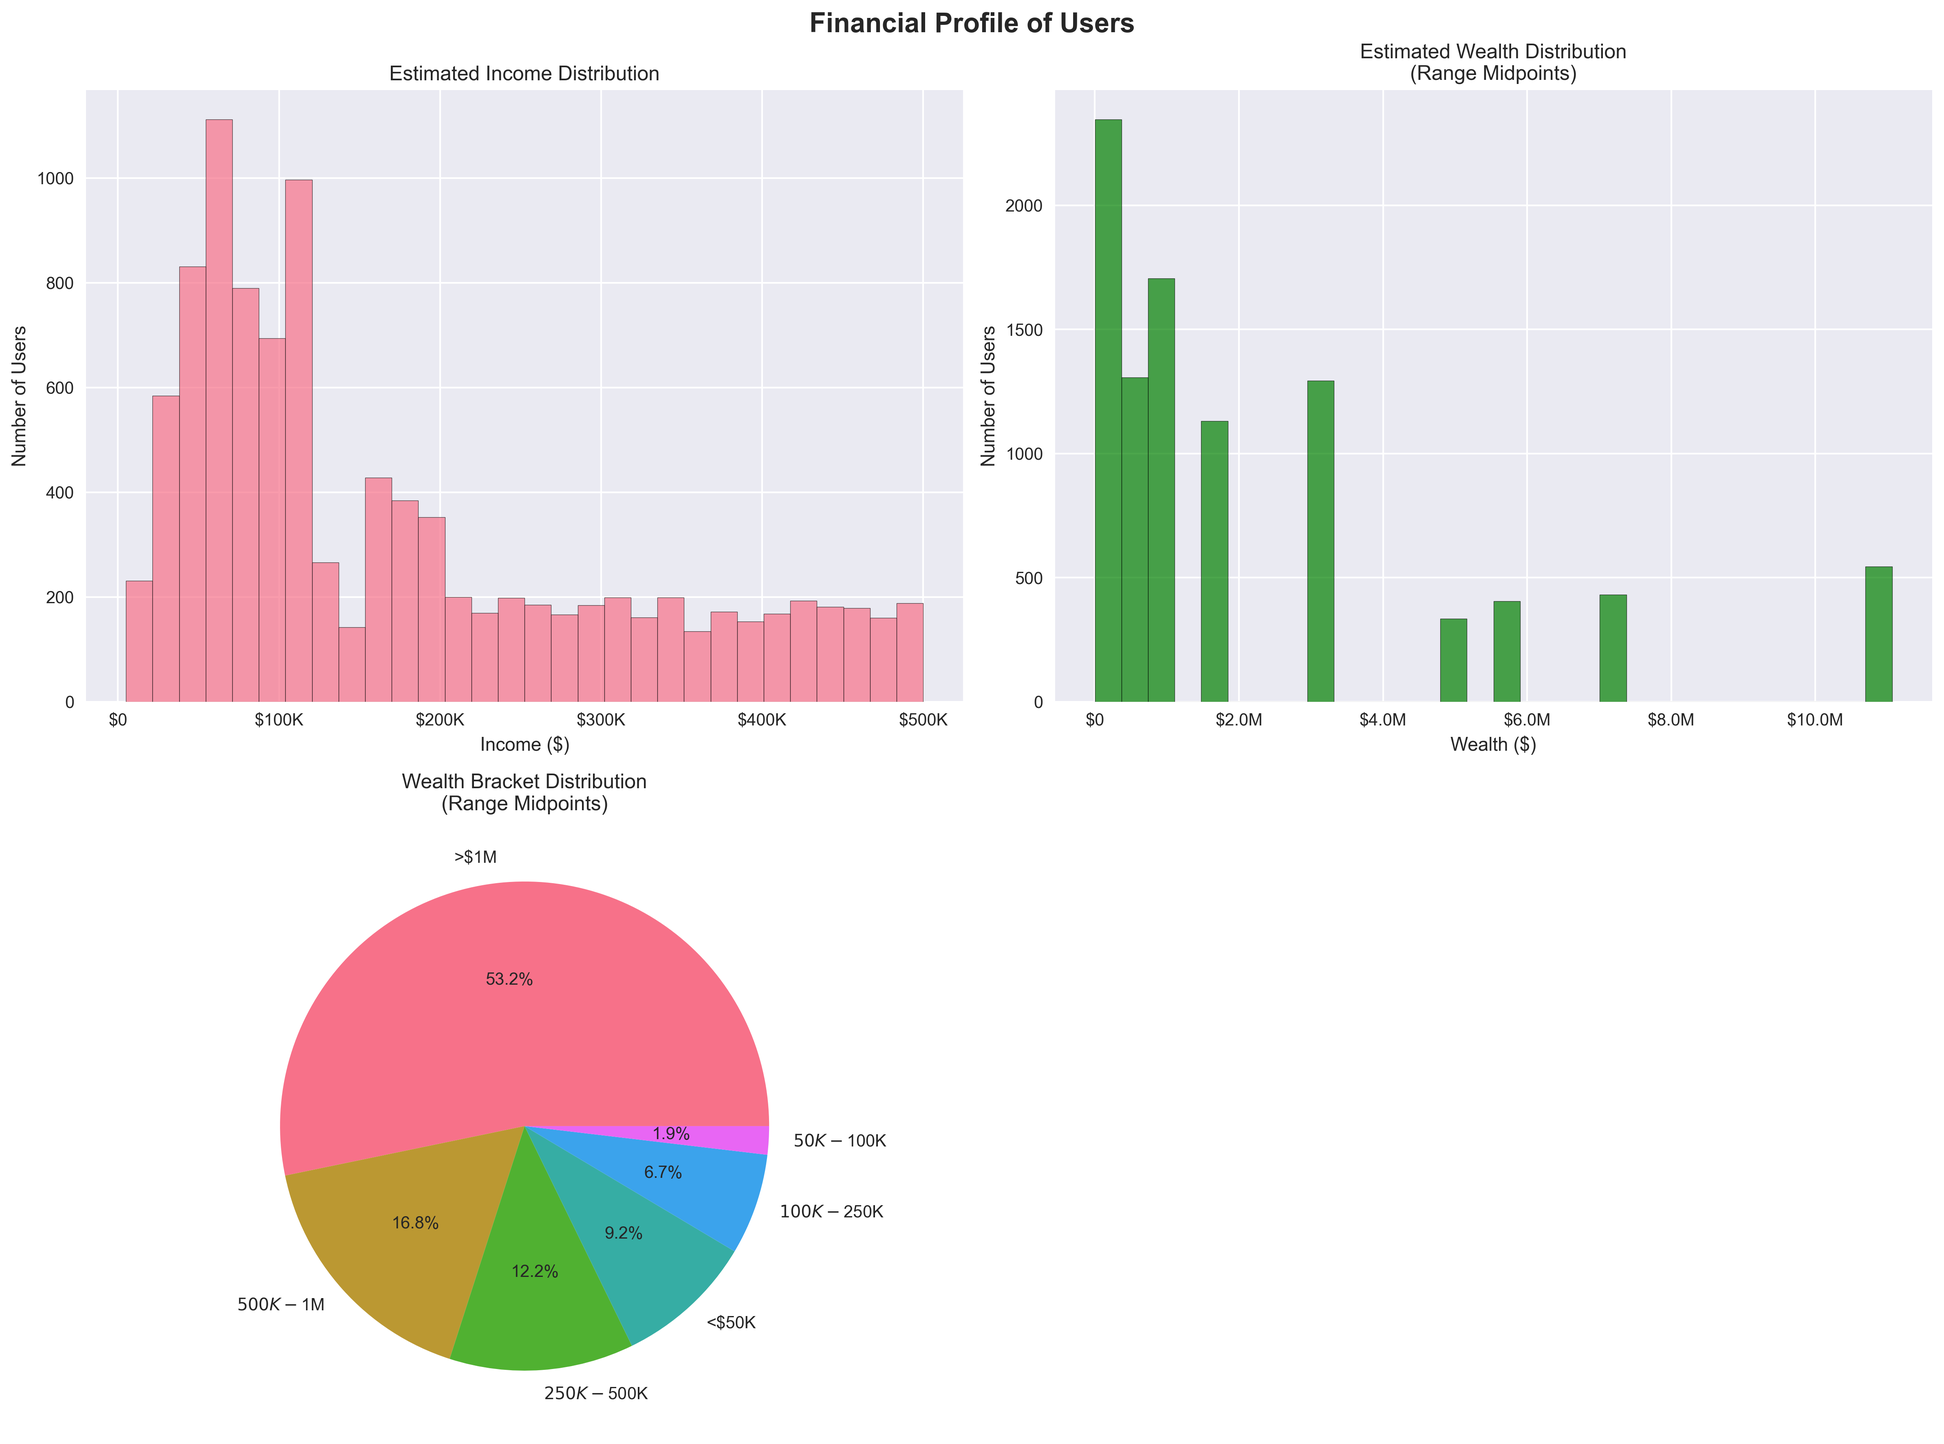
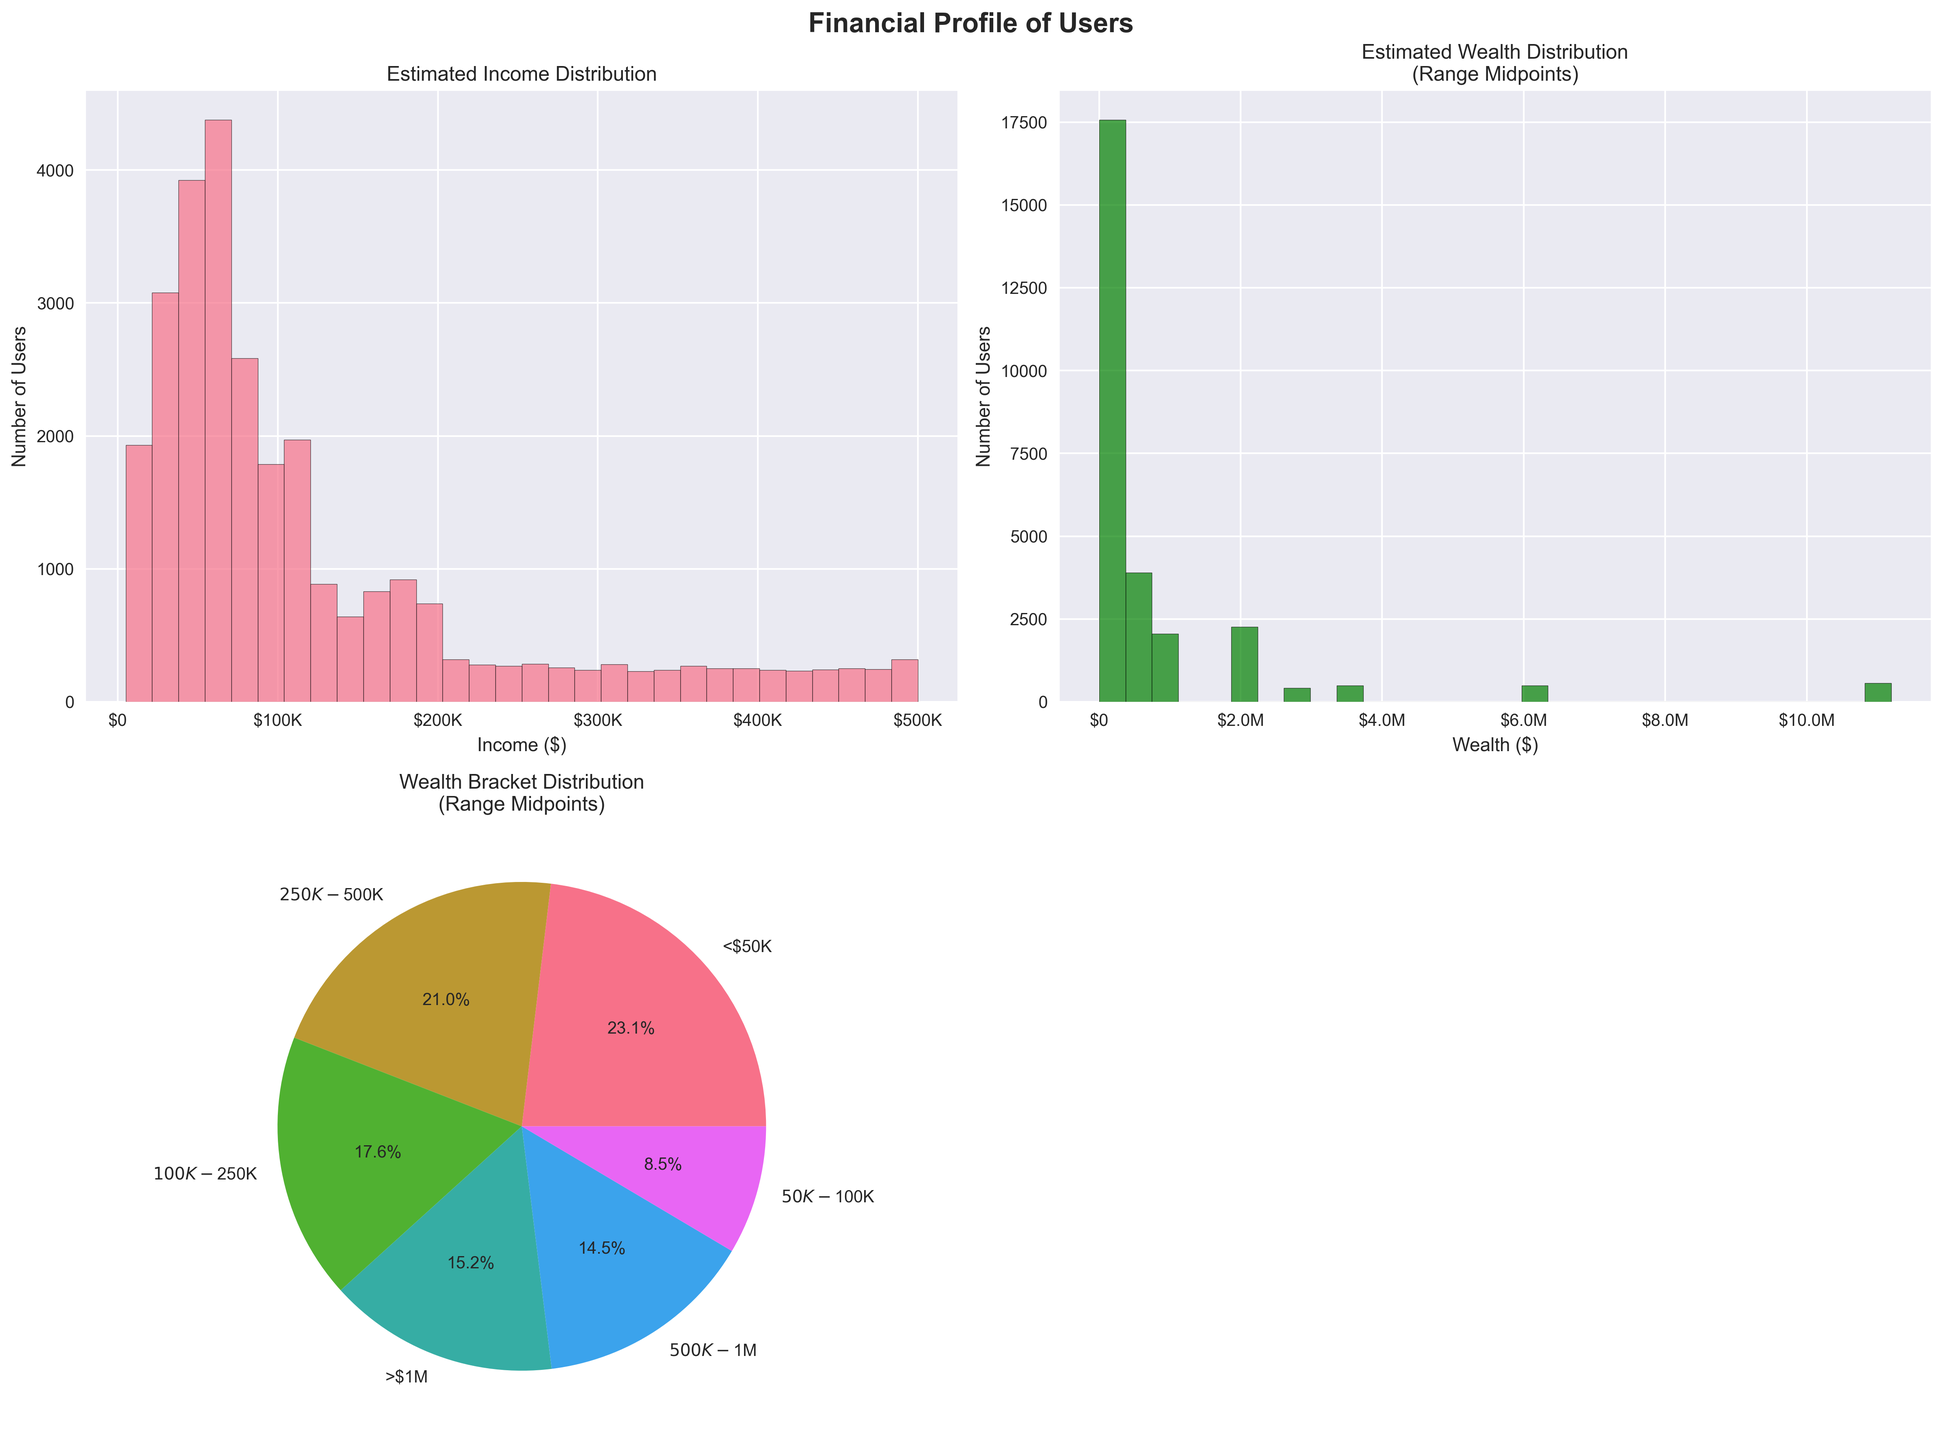
Revert "visualizations with our postgres data"
This reverts commit 19a86f9bc1126cad0f42b559c5a646c55cbc8e3d.

diff --git a/user_dashboard.html b/user_dashboard.html
@@ -277,17 +277,16 @@
         <header>
             <h1>User Demographics & Behavior Analysis</h1>
             <p>Data-Driven Insights for Strategic Business Decisions</p>
-            <p style="font-size: 1em; margin-top: 10px; opacity: 0.8;">Based on 10,000 Data Axle enriched user records</p>
-            <p style="font-size: 0.9em; margin-top: 6px; opacity: 0.85;">Source: PostgreSQL table <code>matched_emails</code> (email, response_json) | Generated February 02, 2026 at 05:53 PM</p>
+            <p style="font-size: 1em; margin-top: 10px; opacity: 0.8;">Based on 28,381 Data Axle enriched user records</p>
         </header>
 
         <!-- <div class="timestamp">
-            📅 Dashboard generated on February 02, 2026 at 05:53 PM | Data is current as of latest analysis
+            📅 Dashboard generated on August 08, 2025 at 11:23 PM | Data is current as of latest analysis
         </div> -->
 
         <!-- <div class="stats-grid">
             <div class="stat-card">
-                <div class="stat-number">10,000</div>
+                <div class="stat-number">28,381</div>
                 <div class="stat-label">Total Users Analyzed</div>
             </div>
             <div class="stat-card">
@@ -295,11 +294,11 @@
                 <div class="stat-label">States Covered</div>
             </div>
             <div class="stat-card">
-                <div class="stat-number">3544</div>
+                <div class="stat-number">6045</div>
                 <div class="stat-label">Cities Represented</div>
             </div>
             <div class="stat-card">
-                <div class="stat-number">95</div>
+                <div class="stat-number">94</div>
                 <div class="stat-label">Interest Categories</div>
             </div>
         </div> -->
@@ -328,16 +327,16 @@
                     <div class="insight-card">
                         <h4>🎯 Key Takeaways</h4>
                         <ul>
-                            <li>Geographic presence across 51 states and 3544 cities</li>
-                            <li>Average income: $174,357 creates diverse segments</li>
-                            <li>Rich interest data with 95 categories analyzed</li>
+                            <li>Geographic presence across 51 states and 6045 cities</li>
+                            <li>Average income: $121,580 creates diverse segments</li>
+                            <li>Rich interest data with 94 categories analyzed</li>
                             <li>Strong engagement patterns across multiple interests</li>
                         </ul>
                     </div>
                     <div class="insight-card">
                         <h4>📈 Growth Opportunities</h4>
                         <ul>
-                            <li>Geographic expansion beyond top states: CA, PA, NY</li>
+                            <li>Geographic expansion beyond top states: CA, TX, FL</li>
                             <li>Premium product offerings for high-income segments</li>
                             <li>Interest-based targeted marketing campaigns</li>
                             <li>Cross-selling opportunities between related interests</li>
@@ -360,9 +359,9 @@
                     <div class="insight-card">
                         <h4>🏙 Market Concentration</h4>
                         <ul>
-                            <li>CA: 1,066 users (10.7% of total)</li>
-                            <li>PA: 626 users (6.3% of total)</li>
-                            <li>NY: 566 users (5.7% of total)</li>
+                            <li>CA: 3,185 users (11.2% of total)</li>
+                            <li>TX: 2,567 users (9.0% of total)</li>
+                            <li>FL: 1,929 users (6.8% of total)</li>
                         </ul>
                     </div>
                     <div class="insight-card">
@@ -423,7 +422,7 @@
                     <div class="insight-card">
                         <h4>💵 Income Segments</h4>
                         <ul>
-                            <li>Average income: $174,357</li>
+                            <li>Average income: $121,580</li>
                             <li>Wide income distribution creates multiple segments</li>
                             <li>Homeowners show higher average income</li>
                             <li>Premium offerings viable for high-income users</li>
@@ -466,45 +465,45 @@
                         <div class="insight-column">
                             <h4>🔥 High-Value Segments</h4>
                             <div class="insight-item">
-                                <strong>Internet:</strong> 6,119 highly engaged users (75.5%)<br>
-                                Average score: 7.6/9 | Total: 8,108 users
+                                <strong>Family:</strong> 4,234 highly engaged users (46.8%)<br>
+                                Average score: 5.8/9 | Total: 9,056 users
                             </div>
                             <div class="insight-item">
-                                <strong>Credit Cards:</strong> 5,234 highly engaged users (66.7%)<br>
-                                Average score: 7.0/9 | Total: 7,848 users
+                                <strong>Sports:</strong> 3,533 highly engaged users (45.8%)<br>
+                                Average score: 5.7/9 | Total: 7,721 users
                             </div>
                             <div class="insight-item">
-                                <strong>Catalogs:</strong> 3,369 highly engaged users (51.8%)<br>
-                                Average score: 5.8/9 | Total: 6,506 users
+                                <strong>Womens Apparel:</strong> 3,927 highly engaged users (36.7%)<br>
+                                Average score: 5.0/9 | Total: 10,687 users
                             </div>
                         </div>
                         <div class="insight-column">
                             <h4>🚀 Emerging Opportunities</h4>
                             <div class="insight-item">
                                 <strong>Rvs:</strong> 9.0/9 average score<br>
-                                129 users with high engagement potential
+                                408 users with high engagement potential
                             </div>
                             <div class="insight-item">
                                 <strong>Trucks:</strong> 9.0/9 average score<br>
-                                237 users with high engagement potential
+                                729 users with high engagement potential
                             </div>
                             <div class="insight-item">
-                                <strong>Football:</strong> 8.3/9 average score<br>
-                                284 users with high engagement potential
+                                <strong>Tobacco:</strong> 9.0/9 average score<br>
+                                169 users with high engagement potential
                             </div>
                         </div>
                         <div class="insight-column">
                             <h4>👥 Mass Market Appeal</h4>
                             <div class="insight-item">
-                                <strong>Internet:</strong> 8,108 total users<br>
-                                Average engagement: 7.6/9
+                                <strong>Womens Apparel:</strong> 10,687 total users<br>
+                                Average engagement: 5.0/9
                             </div>
                             <div class="insight-item">
-                                <strong>Credit Cards:</strong> 7,848 total users<br>
-                                Average engagement: 7.0/9
+                                <strong>Accessories:</strong> 9,356 total users<br>
+                                Average engagement: 5.1/9
                             </div>
                             <div class="insight-item">
-                                <strong>Catalogs:</strong> 6,506 total users<br>
+                                <strong>Family:</strong> 9,056 total users<br>
                                 Average engagement: 5.8/9
                             </div>
                         </div>
@@ -515,7 +514,7 @@
                     <div class="insight-card">
                         <h4>🎯 Targeting Recommendations</h4>
                         <ul>
-                            <li>Focus on Internet interest users for core products</li>
+                            <li>Focus on Family interest users for core products</li>
                             <li>Develop premium offerings for high-intensity users (scores 7-9)</li>
                             <li>Create targeted campaigns around Rvs interest</li>
                             <li>Build loyalty programs for top engagement categories</li>
@@ -554,8 +553,8 @@
                     <div class="insight-card">
                         <h4>🛍 Product Development</h4>
                         <ul>
-                            <li>Expand internet-oriented product lines</li>
-                            <li>Develop premium credit cards collections</li>
+                            <li>Expand family-oriented product lines</li>
+                            <li>Develop premium sports collections</li>
                             <li>Create products targeting emerging high-intensity segments</li>
                             <li>Bundle related interest categories for increased value</li>
                             <li>Design offerings with broad demographic appeal</li>
@@ -564,7 +563,7 @@
                     <div class="insight-card">
                         <h4>💰 Revenue Optimization</h4>
                         <ul>
-                            <li>Implement tiered pricing (avg income: $174,357)</li>
+                            <li>Implement tiered pricing (avg income: $121,580)</li>
                             <li>Offer premium subscriptions for high-intensity users</li>
                             <li>Create loyalty programs for top 3 interest categories</li>
                             <li>Develop cross-selling strategies between related interests</li>
@@ -587,9 +586,9 @@
 
         <!-- <footer>
             <p><strong>User Demographics & Behavior Analysis Dashboard</strong></p>
-            <p>Generated using Data Axle enriched customer data | Analysis covers 10,000 user records</p>
+            <p>Generated using Data Axle enriched customer data | Analysis covers 28,381 user records</p>
             <p style="margin-top: 10px; opacity: 0.8;">Interest scores based on purchases, memberships, subscriptions, and survey responses</p>
-            <p style="margin-top: 5px; opacity: 0.8;">Dashboard generated on February 02, 2026 at 05:53 PM</p>
+            <p style="margin-top: 5px; opacity: 0.8;">Dashboard generated on August 08, 2025 at 11:23 PM</p>
         </footer> -->
     </div>
 </body>

diff --git a/user_analysis_dashboard.py b/user_analysis_dashboard.py
@@ -1,19 +1,8 @@
 #!/usr/bin/env python3
 """
 User Demographics and Behavior Analysis Dashboard
-Analyzes Data Axle enriched user data to provide insights for business teams.
-Loads data only from PostgreSQL matched_emails table (email, response_json). No CSV.
+Analyzes Data Axle enriched user data to provide insights for business teams
 """
-
-import argparse
-import os
-
-# Load .env so DATABASE_URL (and POSTGRES_URI) are available
-try:
-    from dotenv import load_dotenv
-    load_dotenv()
-except ImportError:
-    pass
 
 import pandas as pd
 import numpy as np
@@ -23,38 +12,9 @@ from collections import Counter
 import warnings
 warnings.filterwarnings('ignore')
 
-try:
-    from postgres_loader import load_from_postgres
-except ImportError:
-    load_from_postgres = None
-
 # Set style for better looking plots
 plt.style.use('seaborn-v0_8')
 sns.set_palette("husl")
-
-
-def normalize_numeric_columns(df):
-    """
-    Coerce columns that should be numeric from string/mixed types (e.g. from Postgres JSON).
-    Fixes errors like '<' not supported between instances of 'int' and 'str'.
-    """
-    numeric_cols = [
-        'data.document.attributes.family.member_count',
-        'data.document.attributes.family.adult_count',
-        'data.document.attributes.family.estimated_income',
-        'data.document.attributes.family.estimated_wealth[0]',
-        'data.document.attributes.family.estimated_wealth[1]',
-        'data.document.attributes.lifestyle_segment',
-    ]
-    for col in numeric_cols:
-        if col in df.columns:
-            df[col] = pd.to_numeric(df[col], errors='coerce')
-    # Interest columns (scores 1-9)
-    for col in df.columns:
-        if 'interests.' in col and col not in ('data.document.attributes.interests.id', 'data.document.attributes.interests.created_at'):
-            df[col] = pd.to_numeric(df[col], errors='coerce')
-    return df
-
 
 def load_and_clean_data(filename='data_axle_results.csv'):
     """Load and perform basic cleaning of the data"""
@@ -1019,7 +979,6 @@ def generate_html_dashboard(df):
             <h1>User Demographics & Behavior Analysis</h1>
             <p>Data-Driven Insights for Strategic Business Decisions</p>
             <p style="font-size: 1em; margin-top: 10px; opacity: 0.8;">Based on {total_users:,} Data Axle enriched user records</p>
-            <p style="font-size: 0.9em; margin-top: 6px; opacity: 0.85;">Source: PostgreSQL table <code>matched_emails</code> (email, response_json) | Generated {current_time}</p>
         </header>
 
         <!-- <div class="timestamp">
@@ -1392,53 +1351,13 @@ def generate_html_dashboard(df):
     print("🔄 Dashboard content reflects current data and can be regenerated anytime")
 
 def main():
-    """Main function to run all analyses. Data is loaded only from PostgreSQL matched_emails (no CSV)."""
-    parser = argparse.ArgumentParser(
-        description="User Demographics & Behavior Analysis (Data Axle). Loads only from PostgreSQL matched_emails."
-    )
-    parser.add_argument(
-        "--postgres",
-        metavar="URL",
-        default=os.environ.get("DATABASE_URL"),
-        help="PostgreSQL connection URL (or set DATABASE_URL)",
-    )
-    parser.add_argument(
-        "--table",
-        default="matched_emails",
-        help="PostgreSQL table name (default: matched_emails)",
-    )
-    parser.add_argument(
-        "--email-col",
-        default="email",
-        dest="email_col",
-        help="Email column name (default: email)",
-    )
-    parser.add_argument(
-        "--data-col",
-        default="response_json",
-        dest="data_col",
-        help="JSON/JSONB column name (default: response_json)",
-    )
-    args = parser.parse_args()
-
-    if not args.postgres:
-        raise SystemExit(
-            "PostgreSQL required. Set DATABASE_URL or pass --postgres with your connection URL. CSV is not used."
-        )
-    if load_from_postgres is None:
-        raise SystemExit("PostgreSQL support requires psycopg2. Install with: pip install psycopg2-binary")
-
+    """Main function to run all analyses"""
     print("=== USER DEMOGRAPHICS AND BEHAVIOR ANALYSIS ===")
-    print("Loading Data Axle data from PostgreSQL (matched_emails)...\n")
-
-    df = load_from_postgres(
-        connection_string=args.postgres,
-        table=args.table,
-        email_column=args.email_col,
-        data_column=args.data_col,
-    )
-    df = normalize_numeric_columns(df)
-
+    print("Loading and analyzing Data Axle enriched user data...\n")
+    
+    # Load data
+    df = load_and_clean_data()
+    
     print(f"\nDataset Overview:")
     print(f"- Total records: {len(df):,}")
     print(f"- Total columns: {len(df.columns)}")

diff --git a/README.md b/README.md
@@ -125,28 +125,18 @@ Data Axle's interest scores are based on:
 
 ## Running the Analysis
 
-Data is loaded **only from PostgreSQL** (table `matched_emails`). CSV files are not used.
-
-1. **Table**: `matched_emails` (or pass `--table`)
-2. **Columns**: `email`, `response_json` (JSON/JSONB with the Data Axle match result, e.g. `{"count": 1, "document": {"attributes": {...}}, "match_record_count": 1}`), and optionally `created_at`. Use `--data-col` if your JSON column has a different name.
+To regenerate or update the analysis with fresh data:
 
 ```bash
-# Install dependencies (includes psycopg2-binary for PostgreSQL)
+# Install dependencies
 pip install -r requirements.txt
 
-# Set your PostgreSQL connection URL, then run
-export DATABASE_URL="postgresql://user:password@host:5432/dbname"
+# Run the analysis (generates fresh dashboard every time)
 python3 user_analysis_dashboard.py
-
-# Or pass the URL explicitly
-python3 user_analysis_dashboard.py --postgres "postgresql://user:password@host:5432/dbname" \
-  --table matched_emails --email-col email --data-col response_json
 ```
 
-The script reads only from PostgreSQL `matched_emails`, flattens each row’s `response_json` into the dashboard column structure, then generates the PNGs and `user_dashboard.html`.
-
 **What happens each time you run it:**
-- Loads data only from PostgreSQL `matched_emails` (no CSV)
+- Loads the latest `data_axle_results.csv` data
 - Generates fresh PNG visualizations
 - **Creates a new `user_dashboard.html` with current insights**
 - Updates all metrics, recommendations, and business insights
